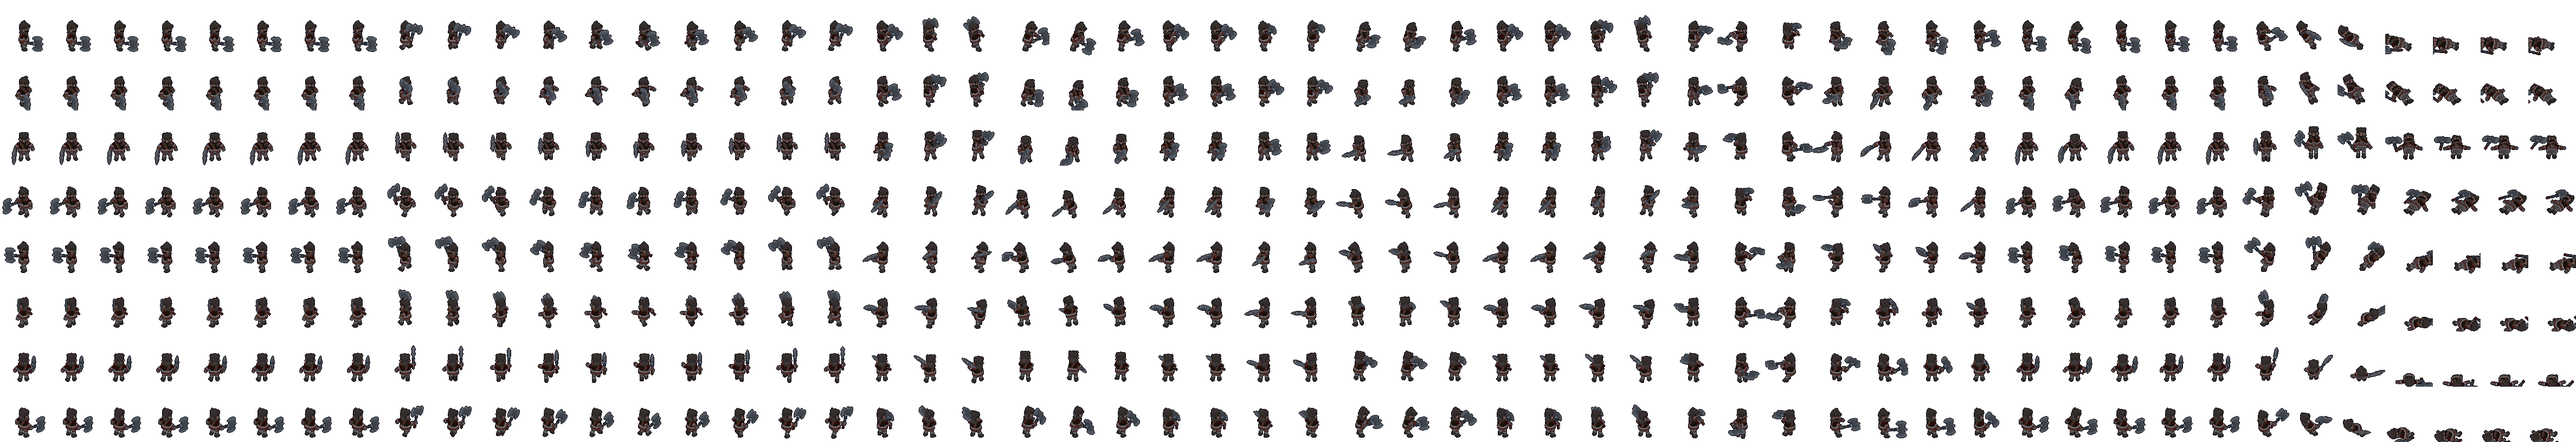
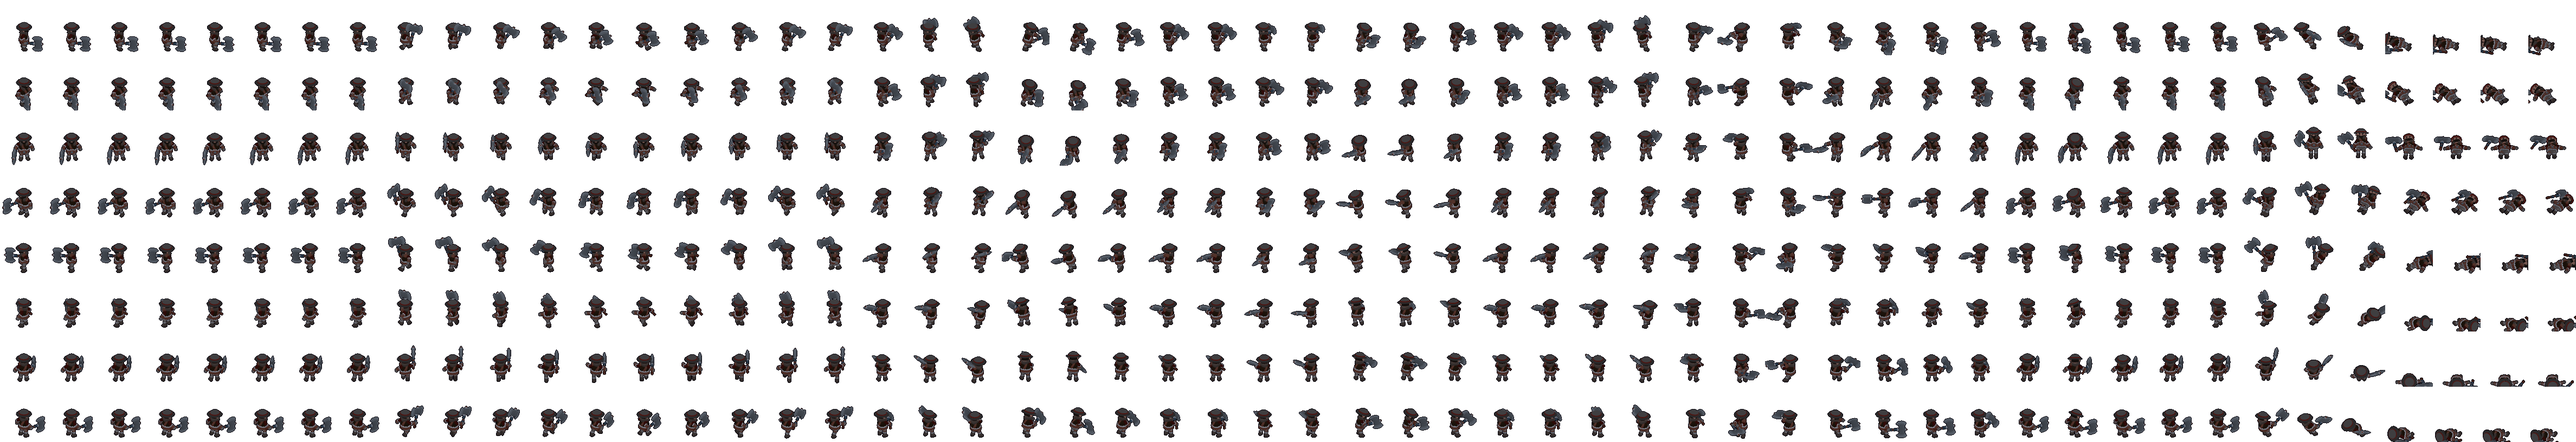
The Redhand brute: an iron kettle hat, not the barbarian hero's
The brute wore the barbarian hero's bear-fur hood, with the same body, so in a melee only
the shirt colour told the Company's man from your own fighter (art critic pass 9, still
wrong #1).

He now wears a deserter's iron kettle hat: a low dome on a wide sloping brim, with a band
of the Company's red. It's a new code-built prop on the head bone (props.js `kettle`);
the KayKit hat is left off. The brim gives him a different silhouette at in-game size.

World doc v1.16 notes it in the bestiary. test/foes.test.mjs now checks that the brute
doesn't share the hero's headgear. Only the brute's albedo and normals were rebaked.
npm run check passes (230 tests, SMOKE_OK, RENDER_SMOKE_OK).

Claude-Session: https://claude.ai/code/session_015iJE9saRx1hCYJHRMUYeGn

diff --git a/tools/actor-lab/props.js b/tools/actor-lab/props.js
@@ -183,6 +183,19 @@ export const PROPS = {
     const belt = new THREE.Mesh(new THREE.BoxGeometry(0.5, 0.06, 0.06), strap); belt.position.set(0, 0.11, 0.32); g.add(belt);
     return g;
   },
+  // the Redhand brute's kettle hat (worn on the head bone): a deserter's issue iron, a low dome on a wide sloping brim,
+  // with a band of the Company's red. He wore the barbarian hero's own hat, and only the shirt told them apart.
+  // (head bone space, before its 0.62 scale: the head spans x ±0.54, y −0.11 … 0.95)
+  kettle: () => {
+    const g = new THREE.Group(); g.name = 'Kettle_Hat';
+    const iron = mat(0x77736e, 0.6, 0.55), rim = mat(0x56524e, 0.6, 0.6), red = mat(0x9a2a1e, 0, 0.9);
+    const dome = new THREE.Mesh(new THREE.SphereGeometry(0.6, 14, 8, 0, Math.PI * 2, 0, Math.PI / 2), iron); dome.scale.set(1, 0.72, 1); dome.position.set(0, 0.6, 0.02); g.add(dome);
+    const brim = new THREE.Mesh(new THREE.CylinderGeometry(0.62, 0.9, 0.12, 16, 1, true), rim); brim.position.set(0, 0.56, 0.02); g.add(brim);
+    const under = new THREE.Mesh(new THREE.CylinderGeometry(0.62, 0.9, 0.12, 16, 1, true), rim); under.material = rim.clone(); under.material.side = THREE.BackSide; under.position.copy(brim.position); g.add(under);
+    const band = new THREE.Mesh(new THREE.CylinderGeometry(0.615, 0.615, 0.12, 16), red); band.position.set(0, 0.68, 0.02); g.add(band);
+    g.traverse((o) => { if (o.isMesh) o.name = 'Kettle_Hat'; });
+    return g;
+  },
   // the Ashbound minion's rag (skeleton-skull proposal, shipped): what's left of a cloak, worn low on the
   // shoulders so the jaw and the ribcage show. KayKit's cloak rode up over the jaw, and the skull read as an egg.
   // (chest bone space: y up from the chest at 1.07 m, z forward; the jaw starts about 0.22 up, the shoulders at 0.13)

diff --git a/docs/emberfall-world.md b/docs/emberfall-world.md
@@ -422,7 +422,7 @@ in §3.6, Maudry in §5); the one-liners are the wry voice (§1) and state nothi
 | Family | Region | Archetypes (current art) | Notes |
 |---|---|---|---|
 | **Ashbound** | all | Minion, Warrior, Rogue, Mage (the KayKit skeletons) | Eye glow reads their rank. Weak to Cleric *Turn Undead*. |
-| **Redhand** | Hollow Vale | Cutthroat, Brute, Crossbowman (recoloured hero models) | Human bandits; can surrender. Their elites are Sergeants (v1.7). |
+| **Redhand** | Hollow Vale | Cutthroat, Brute, Crossbowman (recoloured hero models) | Human bandits; can surrender. Their elites are Sergeants (v1.7). (v1.16) The brutes still wear the iron kettle hats they deserted in, with a band of the Company's red. |
 | **Cinder Cult** | Fens → Throne | Acolyte (cultist), Necromancer, Furnace-priest | Raise and buff Ashbound; priority targets. (v1.16) Acolytes shave their heads and wear charcoal with ember trim. |
 | **Beasts** | varies | Grave rats, fen ghouls, cinder hounds, frost revenants | New art needed later. |
 | **Bosses** | per site | Redhand Captain (Captain Garrow, Wickham Keep; heirloom *Garrow's Due* — "He collected. Everyone paid."), the Robed Stranger (the Sunken Chapel, v1.7), the Abbess Below, Oruth the Forgemaster, **the Glass Legate** (v1.1), the Kindler | One per major site, each with one signature mechanic. **The Glass Legate** is the Ashbound officer Aurelle left to guard her last letter in the Glass Keep. It still obeys an order nobody alive remembers giving. |

diff --git a/docs/art-critic-pass-9.md b/docs/art-critic-pass-9.md
@@ -195,9 +195,10 @@ Scores are one critic's judgement from captures; no blind comparison has been ru
 
 ## Still wrong (ranked)
 
-1. **The brute still shares the barbarian hero's hat and body.** His face and beard differ now, but
-   at in-game size the silhouette is the hero's in a red shirt. A different hat or a hood (a kit
-   swap) would settle it.
+1. ~~**The brute still shares the barbarian hero's hat and body.**~~ Fixed: he wears an iron kettle hat with a
+   band of the Company's red (`props.js` `kettle`), a wide-brimmed silhouette unlike the hero's bear-fur hood.
+
+   ![The barbarian hero and the brute, before and after](img/art9/brute-hat.jpg)
 2. **The Redhand have no mark of the Company.** They wear red, but there's no red hand anywhere: a
    painted palm on a shield or a tabard would carry the name.
 3. ~~**The Ashbound minion's skull** reads as a large white ball from the front.~~ Fixed: a pixel skull
